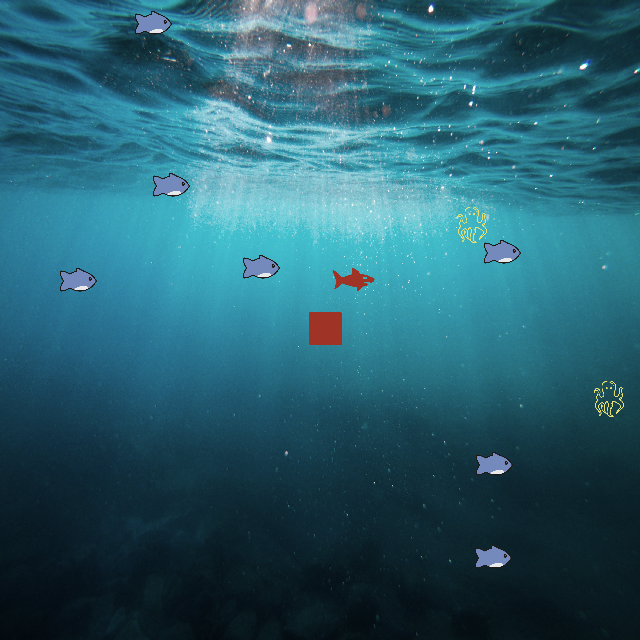
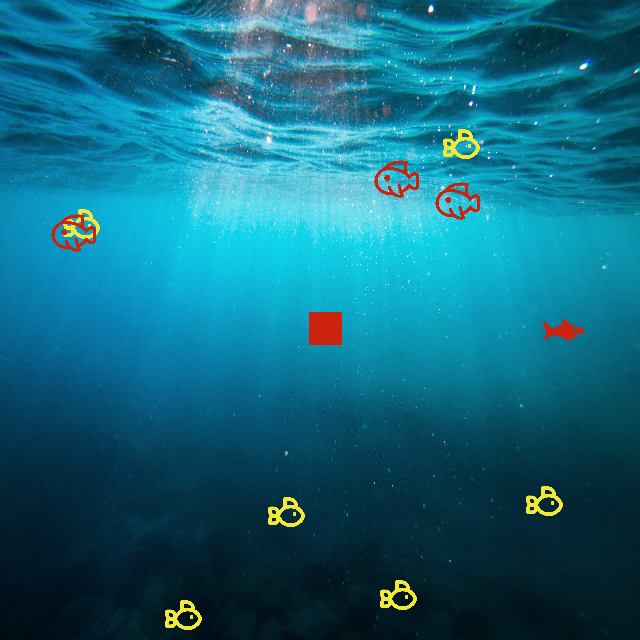
1

diff --git a/Keil/fish_terminal/MDK-ARM/fish_terminal/fish_terminal.htm b/Keil/fish_terminal/MDK-ARM/fish_terminal/fish_terminal.htm
@@ -3,7 +3,7 @@
 <title>Static Call Graph - [fish_terminal\fish_terminal.axf]</title></head>
 <body><HR>
 <H1>Static Call Graph for image fish_terminal\fish_terminal.axf</H1><HR>
-<BR><P>#&#060CALLGRAPH&#062# ARM Linker, 6180002: Last Updated: Sat Apr  5 13:24:27 2025
+<BR><P>#&#060CALLGRAPH&#062# ARM Linker, 6180002: Last Updated: Sat Apr  5 17:33:10 2025
 <BR><P>
 <H3>Maximum Stack Usage =        388 bytes + Unknown(Functions without stacksize, Cycles, Untraceable Function Pointers)</H3><H3>
 Call chain for Maximum Stack Depth:</H3>

diff --git a/Keil/fish_terminal/MDK-ARM/fish_terminal/fish_terminal.build_log.htm b/Keil/fish_terminal/MDK-ARM/fish_terminal/fish_terminal.build_log.htm
@@ -80,7 +80,7 @@ Package Vendor: Keil
 
    * Component: ARM::CMSIS:CORE:5.6.0
       Include file:  CMSIS/Core/Include/tz_context.h
-Build Time Elapsed:  00:00:03
+Build Time Elapsed:  00:00:01
 </pre>
 </body>
 </html>

diff --git a/PyPrj/PythonProject/VirtualFish/fish_get_train_plus.py b/PyPrj/PythonProject/VirtualFish/fish_get_train_plus.py
@@ -14,7 +14,7 @@ screen = pygame.display.set_mode((WIDTH, HEIGHT))
 pygame.display.set_caption("Random Moving Blocks")
 
 # 加载背景图片（可替换）
-background = pygame.image.load("assets/background.jpg")
+background = pygame.image.load("assets/bg_mix.jpg")
 background = pygame.transform.scale(background, (WIDTH, HEIGHT))
 
 # 可选的方块样式（图片路径）
@@ -24,7 +24,7 @@ ALL_BLOCK_STYLES = [
 ]
 SIMPLE_BLOCK_STYLES = ["assets/fish2_1.png", "assets/fish2_2.png", "assets/fish2_3.png"]
 BLOCK_SIZE = 45  # 初始大小
-GROWTH_RATES = [0.0005, 0.0008, 0.001]  # 可选的成长速度
+GROWTH_RATES = [0.0005, 0.0008, 0.0001]  # 可选的成长速度
 MAX_SIZE = 200  # 最大尺寸
 
 SPEED_VARIATION = 0.01  # 速度变化的平滑度

diff --git a/Keil/fish_terminal/Core/Src/esp01s.c b/Keil/fish_terminal/Core/Src/esp01s.c
@@ -17,7 +17,7 @@ void Esp01s_Init(char *ip, char *password, char *server,int port)
   rt_thread_mdelay(2000);
   
   sendData(&huart2, "AT+CWMODE=1\r\n");
-  rt_thread_mdelay(2000);
+  rt_thread_mdelay(2000);   
   sprintf(command, "AT+CWJAP=\"%s\",\"%s\"\r\n", ip, password);
   sendData(&huart2, command);
   rt_thread_mdelay(5000);

diff --git a/Keil/fish_terminal/Core/Src/main.c b/Keil/fish_terminal/Core/Src/main.c
@@ -136,7 +136,7 @@ int main(void)
   rt_thread_t data_controller_task = rt_thread_begin("data_controller_task",
                                             data_controller, RT_NULL,
                                             1024, 3, 10);
- 
+
   while (esp_flag == 0)
   {
     rt_thread_mdelay(20);
